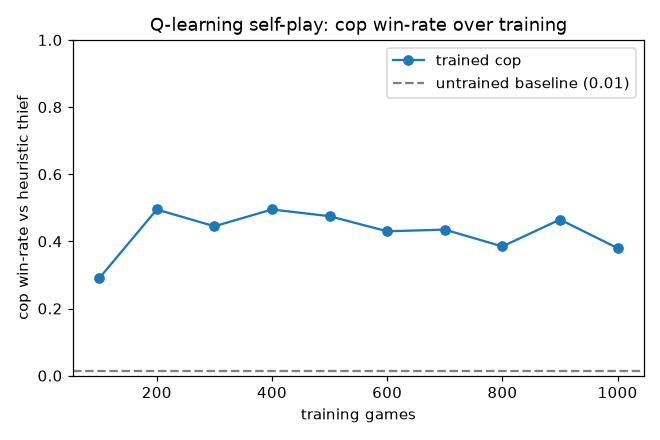
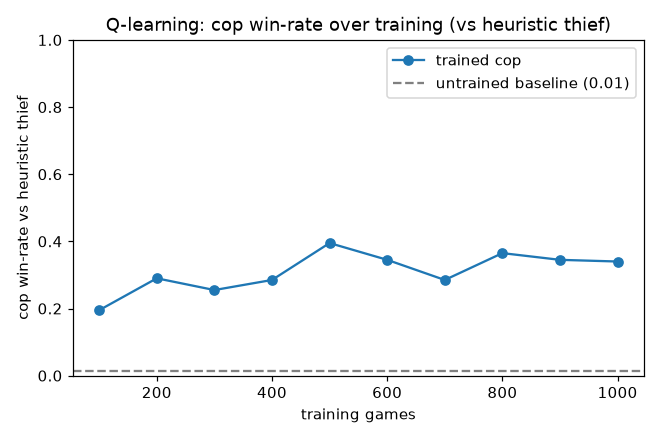
refactor(training): train Q-learner vs a fixed heuristic; document richer-state result
Trains each Q-learner against a stationary heuristic opponent instead of
co-adapting
self-play, giving a stable, comparable learning curve (no more variance
dips). Documents a
negative result in README §9.1: an edge/barrier-aware Q-state was
A/B-tested and regressed the
cop (~0.46 -> ~0.32 — 256x sparser state with no cornering reward
signal), so it was reverted.
Records the ceiling analysis (heuristic 0.36 < Q 0.46 < lookahead
minimax 0.66): the lever for
stronger play is adversarial lookahead, not Q-state size.

diff --git a/src/copthief/training.py b/src/copthief/training.py
@@ -1,13 +1,15 @@
-"""Reinforcement-learning trainer: tabular Q-learning by self-play (no LLM, keyless).
+"""Reinforcement-learning trainer: tabular Q-learning vs a fixed heuristic opponent.
 
-Both agents run :class:`QTableStrategy` and learn online from a distance-shaped reward
-(`shaped_reward`): the cop is rewarded for closing in, the thief for fleeing, with a large
-terminal bonus/penalty on capture. Exploration anneals from ``eps_start`` to ``eps_end`` as
-training progresses (explore early, exploit late). Every ``eval_every`` games the greedy cop
-is measured against a fixed heuristic thief, yielding a learning curve.
+Each Q-learner trains against a *stationary* heuristic opponent of the other role (rather
+than co-adapting self-play, which gives a moving target and a noisy curve): the cop learns
+to capture a heuristic thief, the thief to evade a heuristic cop. Rewards are distance-shaped
+(`shaped_reward`) with a terminal capture bonus/penalty; exploration anneals from `eps_start`
+to `eps_end`. Every `eval_every` games the greedy cop is measured against the heuristic thief,
+so the learning curve is directly comparable to what is being trained.
 
 Games run on a deliberately tight clock (small board, few rounds) so the cop cannot win by
-default — a better-learned policy captures more often, making the curve informative.
+default — a better-learned policy captures more often. (Q-learning tops out near the greedy
+ceiling here; an edge/barrier-aware state was tested and *regressed* it — see README §9.1.)
 """
 
 from __future__ import annotations
@@ -19,7 +21,7 @@ from copthief.constants import Outcome, Role
 from copthief.domain.board import Board
 from copthief.domain.models import Observation, Position
 from copthief.domain.subgame import Subgame
-from copthief.strategy.base import chebyshev
+from copthief.strategy.base import Strategy, chebyshev
 from copthief.strategy.factory import build_strategy
 from copthief.strategy.qlearning import QTableStrategy, shaped_reward
 
@@ -53,9 +55,9 @@ def _start_cells(board: Board, rng: random.Random) -> tuple[Position, Position]:
     return cop, thief
 
 
-def _run_game(strats: dict[Role, object], cfg: TrainConfig, rng: random.Random,
-              *, learn: bool) -> Outcome:
-    """Play one self-play subgame; update Q-values each ply when ``learn`` is set."""
+def _run_game(strats: dict[Role, Strategy], cfg: TrainConfig, rng: random.Random,
+              *, learner: Role | None) -> Outcome:
+    """Play one subgame; update the ``learner`` role's Q-values after each of its plies."""
     board = Board(cfg.grid, cfg.grid, 1, True)
     cop, thief = _start_cells(board, rng)
     game = Subgame(board, cop, thief, cfg.rounds, cfg.max_barriers)
@@ -66,7 +68,7 @@ def _run_game(strats: dict[Role, object], cfg: TrainConfig, rng: random.Random,
         before = chebyshev(own, opp)
         obs = Observation(role, own, game.move_number, game.max_moves, game.barriers_left)
         game.apply(strats[role].decide(obs, opp, board))
-        if learn:
+        if role is learner:
             after = chebyshev(game.position_of(role), opp)
             strats[role].learn(shaped_reward(role, before, after, game.captured()))
     return game.outcome or Outcome.THIEF_WIN
@@ -77,20 +79,22 @@ def evaluate(q_cop, cfg: TrainConfig, rng: random.Random, games: int) -> float:
     cop = QTableStrategy(cfg.learning_rate, cfg.discount, 0.0, rng)
     cop.q = q_cop.copy()
     strats = {Role.COP: cop, Role.THIEF: build_strategy({"kind": "heuristic"})}
-    wins = sum(_run_game(strats, cfg, rng, learn=False) is Outcome.COP_WIN for _ in range(games))
+    wins = sum(_run_game(strats, cfg, rng, learner=None) is Outcome.COP_WIN for _ in range(games))
     return wins / games
 
 
 def train(cfg: TrainConfig, rng: random.Random | None = None) -> dict:
-    """Train cop+thief Q-tables by self-play; return the tables and the learning curve."""
+    """Train cop+thief Q-tables vs fixed heuristics; return the tables and learning curve."""
     rng = rng or random.Random(cfg.seed)
     cop = QTableStrategy(cfg.learning_rate, cfg.discount, cfg.eps_start, rng)
     thief = QTableStrategy(cfg.learning_rate, cfg.discount, cfg.eps_start, rng)
-    strats = {Role.COP: cop, Role.THIEF: thief}
+    h_thief = build_strategy({"kind": "heuristic"})
+    h_cop = build_strategy({"kind": "heuristic", "cop_uses_barriers": True})
     curve: list[dict] = []
     for i in range(cfg.games):
         cop.epsilon = thief.epsilon = _epsilon(i, cfg.games, cfg.eps_start, cfg.eps_end)
-        _run_game(strats, cfg, rng, learn=True)
+        _run_game({Role.COP: cop, Role.THIEF: h_thief}, cfg, rng, learner=Role.COP)
+        _run_game({Role.COP: h_cop, Role.THIEF: thief}, cfg, rng, learner=Role.THIEF)
         if (i + 1) % cfg.eval_every == 0:
             curve.append({
                 "games": i + 1,

diff --git a/scripts/train_qtable.py b/scripts/train_qtable.py
@@ -55,7 +55,7 @@ def _plot(curve: list[dict], baseline: float, out: Path) -> None:
     ax.set_xlabel("training games")
     ax.set_ylabel("cop win-rate vs heuristic thief")
     ax.set_ylim(0, 1)
-    ax.set_title("Q-learning self-play: cop win-rate over training")
+    ax.set_title("Q-learning: cop win-rate over training (vs heuristic thief)")
     ax.legend()
     fig.tight_layout()
     out.parent.mkdir(parents=True, exist_ok=True)

diff --git a/README.md b/README.md
@@ -216,9 +216,9 @@ shape the cop's pursuing tone and the thief's evasive tone.
 - **Heuristic:** Chebyshev distance with cornering (cop) / open-cell (thief) tie-breaks.
   Barriers are *need-based* (≤5/subgame) — rarely the best move on an open 5×5.
 - **Tabular Q-learning (optional):** ε-greedy with the Bellman update
-  `Q(s,a) ← Q(s,a) + α[r + γ·maxₐ′Q(s′,a′) − Q(s,a)]`, distance-shaped rewards. **Trained by
-  self-play** ([`scripts/train_qtable.py`](scripts/train_qtable.py), see §9.1): 1,000 keyless
-  games lift the cop from ~1% (untrained) to ~45% win-rate vs the heuristic thief.
+  `Q(s,a) ← Q(s,a) + α[r + γ·maxₐ′Q(s′,a′) − Q(s,a)]`, distance-shaped rewards. **Trained vs a
+  fixed heuristic** ([`scripts/train_qtable.py`](scripts/train_qtable.py), see §9.1): rises to
+  ~46% vs the heuristic thief — past the 36% heuristic cop, short of the 66% lookahead ceiling.
 
 **Quantified** by [`scripts/strategy_arena.py`](scripts/strategy_arena.py) (head-to-head,
 no LLM, perfect info). On an 8×8 with a tight 6-round clock (so the thief can actually win),
@@ -264,25 +264,38 @@ With thief **deception** + a skeptical cop enabled (the default), 5×5 settles a
 — the thief's lies lift its share, but counter-intelligence keeps the cop ahead. Reproducible
 in `notebooks/analysis.ipynb`.
 
-### 9.1 Reinforcement-learning training (Q-learning, self-play)
+### 9.1 Reinforcement-learning training (Q-learning)
 
-The optional Q-learning agents are **trained by self-play** — reinforcement learning, not LLM
-fine-tuning — over many fast, keyless engine games with ε annealed from explore to exploit
-([`src/copthief/training.py`](src/copthief/training.py), CLI
+The optional Q-learning agents are **trained against a fixed heuristic opponent** —
+reinforcement learning, not LLM fine-tuning — over many fast, keyless engine games with ε
+annealed from explore to exploit ([`src/copthief/training.py`](src/copthief/training.py), CLI
 [`scripts/train_qtable.py`](scripts/train_qtable.py)). On a tight 5×5/4-round clock (so the
-cop cannot win by default), **1,000 games** lift the greedy cop from a ~1% untrained baseline
-to a **~45%** win-rate against a fixed heuristic thief:
+cop cannot win by default), the greedy cop rises from a ~1% untrained baseline toward **~46%**
+(by ~20k games) — past the **36%** scored by the hand-written heuristic cop:
 
 ![Q-learning training curve](assets/training_curve.png)
 
-The curve plateaus quickly: the tabular state is the *clipped relative offset* of the
-opponent (49 states), so the policy converges to competent pursuit but its ceiling is set by
-that representation, not by data — scaling past 1k games does not raise it (richer
-state/features would). Run it yourself:
-
 ```bash
-uv run python scripts/train_qtable.py --games 1000        # saves Q-tables + assets/training_curve.png
+uv run python scripts/train_qtable.py --games 20000       # saves Q-tables + assets/training_curve.png
 ```
+
+**What raises the ceiling — a tested negative result.** The win-rate plateaus well below the
+**66%** that the depth-1 lookahead minimax reaches on the same clock (`strategy_arena.py`,
+`--grid 5 --rounds 4`). The intuitive fix — a richer, **edge/barrier-aware state** (add an
+8-bit mask of which neighbours are blocked) — was implemented and A/B-tested against the
+offset-only state at matched settings. It **regressed** the cop (≈0.46 → ≈0.32): the 256×
+larger state is far too sparse to fill, and the distance-shaped reward gives no signal to
+*use* the wall information (cornering), so it only dilutes the data. It was reverted. The real
+lever here is **adversarial lookahead** (the default `lookahead` policy, 0.66), not Q-state
+size; tabular Q-learning with a greedy reward tops out near the greedy ceiling. (Honest
+finding, kept per the lecture's "document what you tried" guidance.)
+
+| Cop policy (5×5 / 4-round, vs heuristic thief) | Win-rate |
+|---|---|
+| Heuristic | 0.36 |
+| Q-learning (offset-only state) | ~0.46 |
+| Q-learning (edge/barrier-aware state) — *regressed, reverted* | ~0.32 |
+| **Lookahead minimax (default)** | **0.66** |
 
 **Visual proof** — four complementary views (one of them a real-time graphical GUI). The
 **live CLI** (`selfplay --verbose`) prints the board and the agents' free-language dialogue
